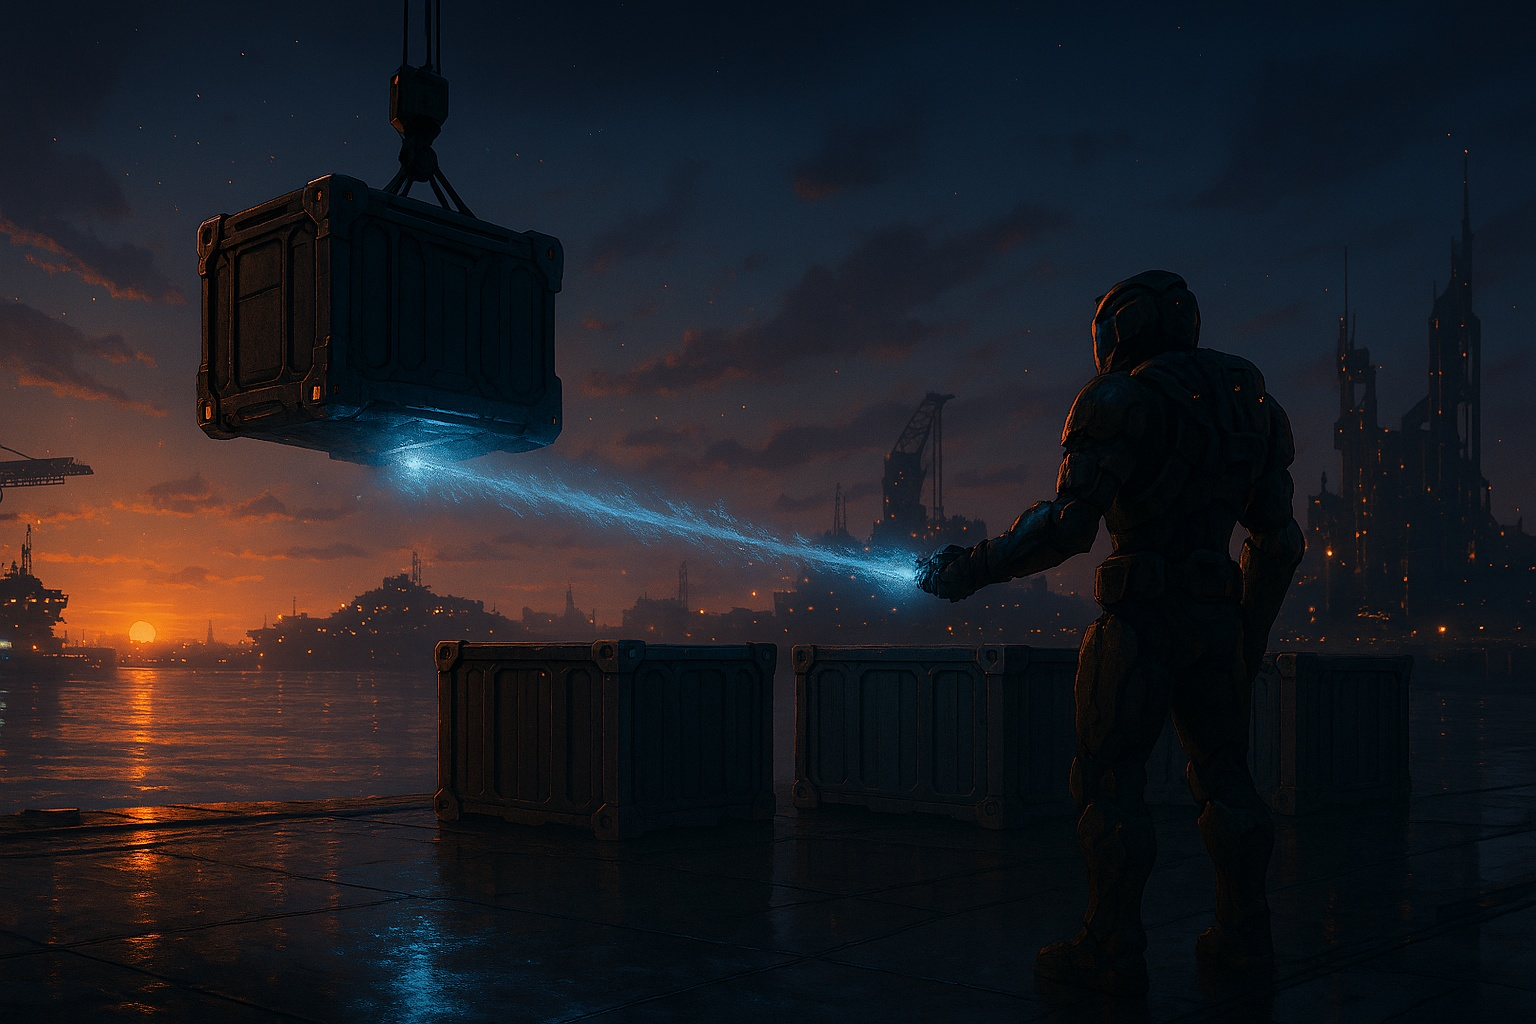
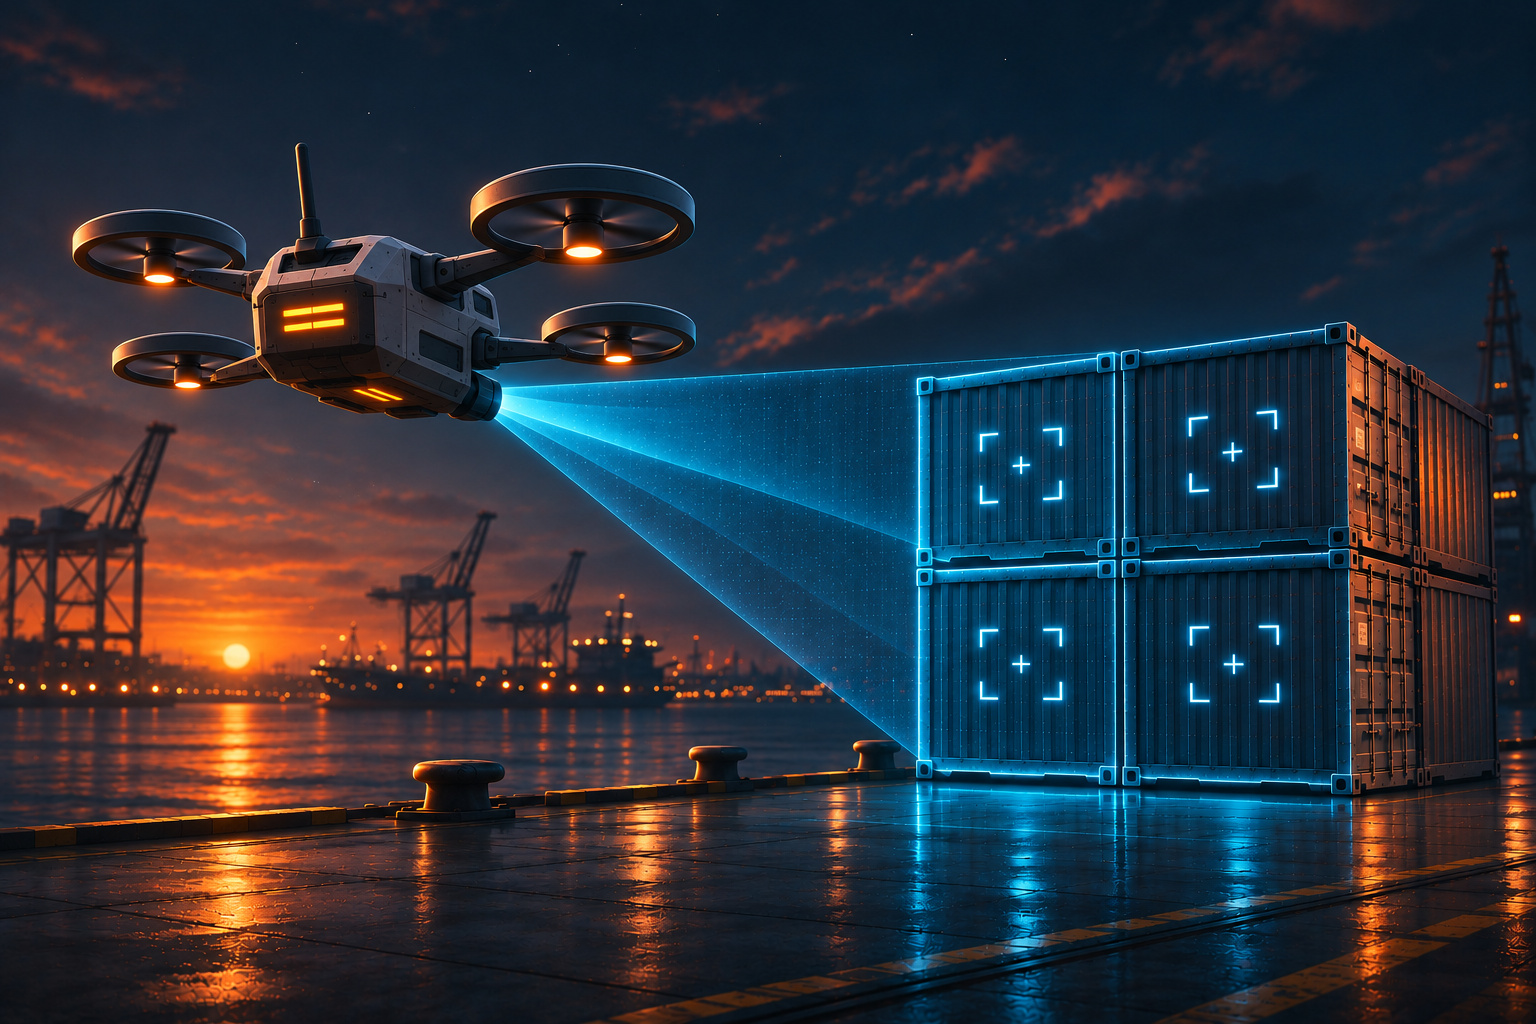
fix: changed cover image and its caption for SWAR article

diff --git a/src/posts/012-simd-within-a-register-how-i-doubled-hash-table-lookup-performance/index.md b/src/posts/012-simd-within-a-register-how-i-doubled-hash-table-lookup-performance/index.md
@@ -12,7 +12,7 @@ title: 'SIMD Within a Register: How I Doubled Hash Table Lookup Performance'
 preview: 'It started with a simple thought: four bytes in a hash table bucket look just like an integer. Luckily, this one idea led to a deep dive into bit-twiddling and a 2x performance boost.'
 draft: false
 aiCover: true
-coverCaption: "Four bytes checked in one move."
+coverCaption: "No need to inspect each one separately if you have a powerful scanner."
 ---
 
 <script>
